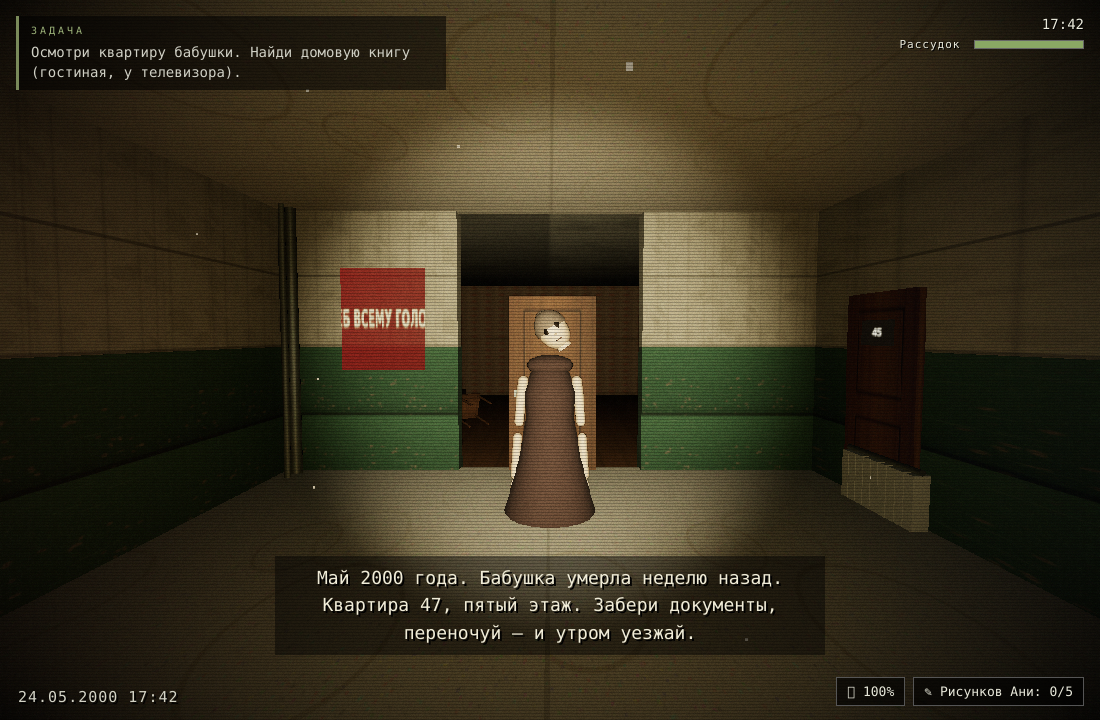
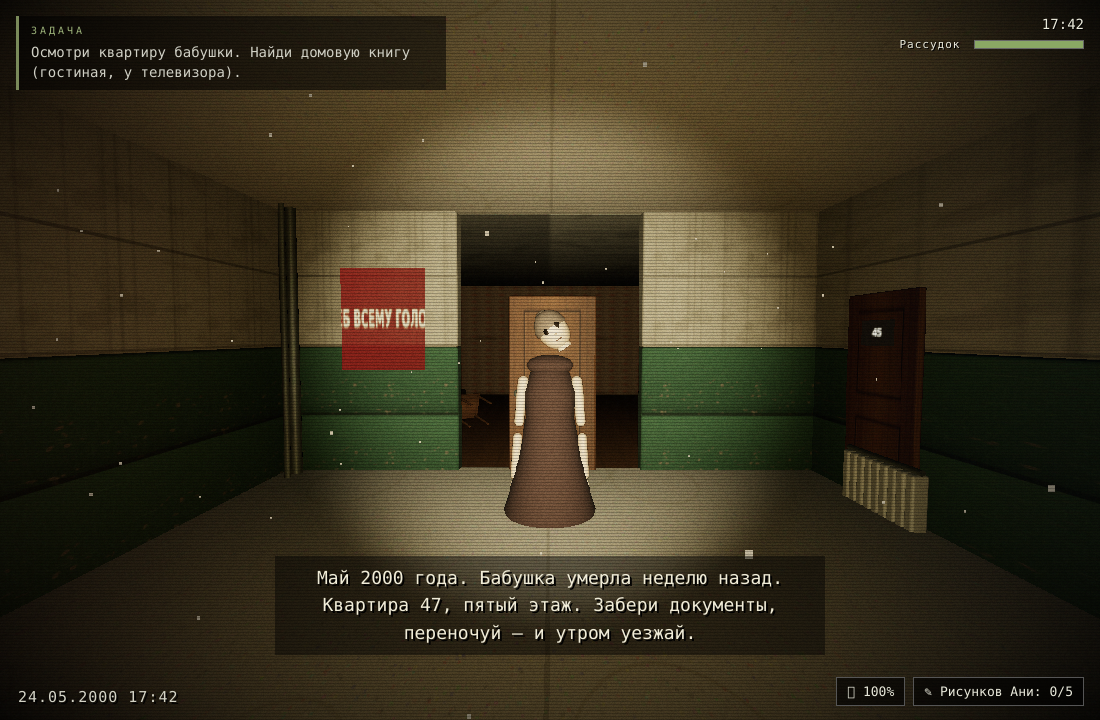
Высокая полигональность: RoundedBox-геометрия, 80-сегментные тела вращения, ~830k треугольников в сцене

Changed region(s): [[0.7418, 0.6417, 0.8345, 0.7333]]

diff --git a/src/main.js b/src/main.js
@@ -4,6 +4,7 @@ import { RenderPass } from 'three/addons/postprocessing/RenderPass.js';
 import { UnrealBloomPass } from 'three/addons/postprocessing/UnrealBloomPass.js';
 import { FilmPass } from 'three/addons/postprocessing/FilmPass.js';
 import { OutputPass } from 'three/addons/postprocessing/OutputPass.js';
+import { RoundedBoxGeometry } from 'three/addons/geometries/RoundedBoxGeometry.js';
 
 // ================= DOM =================
 const $=id=>document.getElementById(id);
@@ -138,7 +139,7 @@ const surfaces=[], colliders=[], interactables=[], lamps=[];
 function addSurface(x1,x2,z1,z2,y){ surfaces.push({x1,x2,z1,z2,y}); }
 function groundYAt(x,z,refY){ let best=null,bd=1e9; for(const s of surfaces){ if(x>=s.x1&&x<=s.x2&&z>=s.z1&&z<=s.z2){ const y=typeof s.y==='function'?s.y(x,z):s.y; const d=Math.abs(y-refY); if(d<bd){bd=d;best=y;} } } return bd<2.1?best:null; }
 function addCollider(x1,x2,z1,z2,y1,y2){ const c={x1,x2,z1,z2,y1,y2,enabled:true}; colliders.push(c); return c; }
-function box(w,h,d,mat,x,y,z,parent=world){ const m=new THREE.Mesh(new THREE.BoxGeometry(w,h,d),mat); m.position.set(x,y,z); m.castShadow=true; m.receiveShadow=true; parent.add(m); return m; }
+function box(w,h,d,mat,x,y,z,parent=world){ const rad=Math.max(0.001,Math.min(0.03,Math.min(w,h,d)*0.24)); const m=new THREE.Mesh(new RoundedBoxGeometry(w,h,d,4,rad),mat); m.position.set(x,y,z); m.castShadow=true; m.receiveShadow=true; parent.add(m); return m; }
 function wallBox(cx,cy,cz,w,h,d,mat=M.concrete){ const m=box(w,h,d,mat,cx,cy,cz); addCollider(cx-w/2,cx+w/2,cz-d/2,cz+d/2,cy-h/2,cy+h/2); return m; }
 function addInteract(obj){ interactables.push(obj); }
 
@@ -274,13 +275,13 @@ const rulesPlane=labelPlane('ПРАВИЛА ДОМА',1.0,0.55,'#2a2a22','rgba(2
 
 // ================= ДЕТАЛЬНЫЕ МОДЕЛИ (мебель, мелочи, пыль) =================
 let dustPoints=null;
-function cyl(r1,r2,h,mat,x,y,z,parent=world,seg=14){ const m=new THREE.Mesh(new THREE.CylinderGeometry(r1,r2,h,seg),mat); m.position.set(x,y,z); m.castShadow=true; m.receiveShadow=true; parent.add(m); return m; }
-function sph(r,mat,x,y,z,parent=world){ const m=new THREE.Mesh(new THREE.SphereGeometry(r,18,14),mat); m.position.set(x,y,z); m.castShadow=true; m.receiveShadow=true; parent.add(m); return m; }
-function tube(a,b,r,mat,parent=world){ const A=new THREE.Vector3(...a),B=new THREE.Vector3(...b); const d=B.clone().sub(A); const m=new THREE.Mesh(new THREE.CylinderGeometry(r,r,d.length(),10),mat); m.position.copy(A).addScaledVector(d,0.5); m.quaternion.setFromUnitVectors(new THREE.Vector3(0,1,0),d.normalize()); m.castShadow=true; parent.add(m); return m; }
+function cyl(r1,r2,h,mat,x,y,z,parent=world,seg=36){ const m=new THREE.Mesh(new THREE.CylinderGeometry(r1,r2,h,seg),mat); m.position.set(x,y,z); m.castShadow=true; m.receiveShadow=true; parent.add(m); return m; }
+function sph(r,mat,x,y,z,parent=world){ const m=new THREE.Mesh(new THREE.SphereGeometry(r,44,30),mat); m.position.set(x,y,z); m.castShadow=true; m.receiveShadow=true; parent.add(m); return m; }
+function tube(a,b,r,mat,parent=world){ const A=new THREE.Vector3(...a),B=new THREE.Vector3(...b); const d=B.clone().sub(A); const m=new THREE.Mesh(new THREE.CylinderGeometry(r,r,d.length(),24),mat); m.position.copy(A).addScaledVector(d,0.5); m.quaternion.setFromUnitVectors(new THREE.Vector3(0,1,0),d.normalize()); m.castShadow=true; parent.add(m); return m; }
 function chair(x,y,z,ry,parent=world){ const g=new THREE.Group(); g.position.set(x,y,z); g.rotation.y=ry; parent.add(g); const wood=M.door;
-  for(const [lx,lz] of [[-.19,-.19],[.19,-.19],[-.19,.19],[.19,.19]]) cyl(0.022,0.018,0.45,wood,lx,0.225,lz,g,8);
+  for(const [lx,lz] of [[-.19,-.19],[.19,-.19],[-.19,.19],[.19,.19]]) cyl(0.022,0.018,0.45,wood,lx,0.225,lz,g,20);
   box(0.46,0.04,0.46,wood,0,0.46,0,g);
-  for(const lx of [-.19,.19]) cyl(0.02,0.02,0.55,wood,lx,0.73,0.21,g,8);
+  for(const lx of [-.19,.19]) cyl(0.02,0.02,0.55,wood,lx,0.73,0.21,g,20);
   box(0.44,0.09,0.035,wood,0,0.97,0.21,g); box(0.44,0.07,0.03,wood,0,0.78,0.21,g); return g; }
 function radiator(x,y,z,ry=0,parent=world){ const g=new THREE.Group(); g.position.set(x,y,z); g.rotation.y=ry; parent.add(g); const wm=new THREE.MeshStandardMaterial({color:0xb9bcb4,roughness:0.5,metalness:0.35});
   for(let i=0;i<9;i++) box(0.09,0.52,0.13,wm,-0.4+i*0.1,0.32,0,g);
@@ -361,15 +362,42 @@ function radiator(x,y,z,ry=0,parent=world){ const g=new THREE.Group(); g.positio
   // подвал: трубы под потолком и вентиль
   const p1=cyl(0.07,0.07,9,M.metal,10,-0.35,-2,world,12); p1.rotation.z=Math.PI/2;
   const p2=cyl(0.05,0.05,9,M.metal,10,-0.55,-1.8,world,10); p2.rotation.z=Math.PI/2;
-  const valve=new THREE.Mesh(new THREE.TorusGeometry(0.16,0.03,10,20),M.red); valve.position.set(12.2,-1.7,0.86); world.add(valve);
+  const valve=new THREE.Mesh(new THREE.TorusGeometry(0.16,0.03,24,72),M.red); valve.position.set(12.2,-1.7,0.86); world.add(valve);
   cyl(0.09,0.09,0.06,new THREE.MeshStandardMaterial({color:0xe8e4d2,roughness:0.3}),13.6,-1.2,0.86,world,14).rotation.x=Math.PI/2;
   // квартира 43: опрокинутый стул
   const ch=chair(-8,Y,1.2,0.7); ch.rotation.z=1.35; ch.position.y=Y+0.25;
+
+  // --- высокополигональные детали: шторы волной, люстра, цветок на подоконнике ---
+  const curtainMat=new THREE.MeshStandardMaterial({map:texFabric,color:0x9a7a6a,roughness:1,side:THREE.DoubleSide});
+  for(const cx of [13.3,15.7]){
+    const cg=new THREE.PlaneGeometry(0.52,1.95,28,36); const cp=cg.attributes.position;
+    for(let vi=0;vi<cp.count;vi++){ const vx=cp.getX(vi),vy=cp.getY(vi); cp.setZ(vi,Math.sin((vx+0.26)*22)*0.045+Math.sin(vy*5+cx)*0.015); }
+    cg.computeVertexNormals();
+    const cm=new THREE.Mesh(cg,curtainMat); cm.position.set(cx,Y+1.68,6.88); cm.castShadow=true; cm.receiveShadow=true; world.add(cm);
+  }
+  // люстра в гостиной: arms + плафоны
+  cyl(0.02,0.02,0.3,M.metal,14.5,Y+2.9,-3.5,world,16);
+  const lampHub=sph(0.06,M.metal,14.5,Y+2.72,-3.5);
+  for(let ai=0;ai<3;ai++){ const ang=ai/3*Math.PI*2; const ax=14.5+Math.cos(ang)*0.34, az=-3.5+Math.sin(ang)*0.34;
+    tube([14.5,Y+2.74,-3.5],[ax,Y+2.62,az],0.014,M.metal);
+    const sh=new THREE.Mesh(new THREE.SphereGeometry(0.085,36,24,0,Math.PI*2,0,1.9),M.glass); sh.position.set(ax,Y+2.6,az); sh.rotation.x=Math.PI; world.add(sh);
+    const bulb2=sph(0.032,M.lampOn,ax,Y+2.58,az); bulb2.castShadow=false; }
+  // цветок: горшок, стебли, листья (каждый лист — высокосегментная сфера-линза)
+  cyl(0.09,0.07,0.16,new THREE.MeshStandardMaterial({color:0x8a4a30,roughness:0.8}),13.35,Y+0.9,6.8,world,28);
+  const leafMat=new THREE.MeshStandardMaterial({color:0x39543a,roughness:0.85});
+  for(let li=0;li<14;li++){ const ang=li/14*Math.PI*2+Math.random()*.4, tilt=0.5+Math.random()*0.7;
+    tube([13.35,Y+0.97,6.8],[13.35+Math.cos(ang)*0.1,Y+1.12+Math.random()*0.12,6.8+Math.sin(ang)*0.1],0.006,leafMat);
+    const leaf=sph(0.05,leafMat,13.35+Math.cos(ang)*0.14,Y+1.16+Math.random()*0.1,6.8+Math.sin(ang)*0.14);
+    leaf.scale.set(1.5,0.28,0.7); leaf.rotation.set(tilt,ang,0.4); }
+  // уют: тарелки и кружки на кухонном столе (торы и цилиндры высокого разрешения)
+  for(const [px,pz] of [[8.6,-4.05],[9.0,-4.35]]){ const plate=new THREE.Mesh(new THREE.TorusGeometry(0.085,0.02,20,48),new THREE.MeshStandardMaterial({color:0xd9d5c6,roughness:0.3})); plate.position.set(px,Y+0.75,pz); plate.rotation.x=Math.PI/2; plate.castShadow=true; world.add(plate); }
+  cyl(0.035,0.03,0.08,new THREE.MeshStandardMaterial({color:0xa33b2e,roughness:0.35}),8.75,Y+0.79,-4.2,world,32);
+
   // пыль в воздухе
-  const N=420, pos=new Float32Array(N*3);
+  const N=2600, pos=new Float32Array(N*3);
   for(let i=0;i<N;i++){ if(i%2){ pos[i*3]=-4+Math.random()*22; pos[i*3+1]=Math.random()*15; pos[i*3+2]=-6+Math.random()*12; } else { pos[i*3]=-4+Math.random()*8; pos[i*3+1]=Math.random()*17; pos[i*3+2]=-2+Math.random()*12; } }
   const dg=new THREE.BufferGeometry(); dg.setAttribute('position',new THREE.BufferAttribute(pos,3));
-  dustPoints=new THREE.Points(dg,new THREE.PointsMaterial({color:0xffe6b8,size:0.02,transparent:true,opacity:0.4,depthWrite:false}));
+  dustPoints=new THREE.Points(dg,new THREE.PointsMaterial({color:0xffe6b8,size:0.013,transparent:true,opacity:0.28,depthWrite:false}));
   scene.add(dustPoints);
 })();
 
@@ -384,37 +412,37 @@ function makeFigure(dress=false,coatColor=null){
   if(dress){
     // платье — силуэт через LatheGeometry
     const pts=[]; [[0.02,0],[0.34,0.02],[0.38,0.18],[0.26,0.6],[0.2,0.95],[0.21,1.15],[0.16,1.32],[0.05,1.38]].forEach(p=>pts.push(new THREE.Vector2(p[0],p[1])));
-    part(new THREE.LatheGeometry(pts,18),M.dress,0,0,0);
-    part(new THREE.SphereGeometry(0.155,14,10),M.dress,0,1.38,0).scale.set(1.25,0.55,0.9); // плечи
+    part(new THREE.LatheGeometry(pts,80),M.dress,0,0,0);
+    part(new THREE.SphereGeometry(0.155,44,30),M.dress,0,1.38,0).scale.set(1.25,0.55,0.9); // плечи
     // длинные руки: плечо+предплечье капсулами, кисти
-    for(const side of [-1,1]){ const a=part(new THREE.CapsuleGeometry(0.042,0.34,4,10),skin,side*0.24,1.08,0); a.rotation.z=side*0.1;
-      const f=part(new THREE.CapsuleGeometry(0.036,0.32,4,10),skin,side*0.28,0.62,0.01); f.rotation.z=side*0.06;
-      const hand=part(new THREE.SphereGeometry(0.05,10,8),skin,side*0.29,0.36,0.02); hand.scale.set(0.75,1.5,0.4);
-      for(let fi2=0;fi2<3;fi2++){ const fg=part(new THREE.CapsuleGeometry(0.008,0.06,3,6),skin,side*0.29+(fi2-1)*0.02,0.27,0.03); } }
+    for(const side of [-1,1]){ const a=part(new THREE.CapsuleGeometry(0.042,0.34,14,28),skin,side*0.24,1.08,0); a.rotation.z=side*0.1;
+      const f=part(new THREE.CapsuleGeometry(0.036,0.32,14,28),skin,side*0.28,0.62,0.01); f.rotation.z=side*0.06;
+      const hand=part(new THREE.SphereGeometry(0.05,44,30),skin,side*0.29,0.36,0.02); hand.scale.set(0.75,1.5,0.4);
+      for(let fi2=0;fi2<3;fi2++){ const fg=part(new THREE.CapsuleGeometry(0.008,0.06,14,28),skin,side*0.29+(fi2-1)*0.02,0.27,0.03); } }
     part(new THREE.CylinderGeometry(0.05,0.065,0.5,10),skin,-0.1,0.06,0).position.y=-0.1; // ноги под платьем едва видны
-    const legL=part(new THREE.CapsuleGeometry(0.045,0.3,4,8),skin,-0.1,0.16,0); const legR=part(new THREE.CapsuleGeometry(0.045,0.3,4,8),skin,0.1,0.16,0);
+    const legL=part(new THREE.CapsuleGeometry(0.045,0.3,14,28),skin,-0.1,0.16,0); const legR=part(new THREE.CapsuleGeometry(0.045,0.3,14,28),skin,0.1,0.16,0);
     part(new THREE.BoxGeometry(0.09,0.04,0.2),M.dark,-0.1,0.02,0.04); part(new THREE.BoxGeometry(0.09,0.04,0.2),M.dark,0.1,0.02,0.04);
   } else {
     // пальто — LatheGeometry: подол шире, талия уже
     const pts=[]; [[0.02,0.55],[0.24,0.56],[0.27,0.8],[0.2,1.15],[0.19,1.4],[0.24,1.52],[0.05,1.56]].forEach(p=>pts.push(new THREE.Vector2(p[0],p[1])));
-    part(new THREE.LatheGeometry(pts,18),coatMat,0,0,0);
-    part(new THREE.SphereGeometry(0.16,14,10),coatMat,0,1.5,0).scale.set(1.35,0.55,0.95); // плечи
+    part(new THREE.LatheGeometry(pts,80),coatMat,0,0,0);
+    part(new THREE.SphereGeometry(0.16,44,30),coatMat,0,1.5,0).scale.set(1.35,0.55,0.95); // плечи
     part(new THREE.CylinderGeometry(0.19,0.21,0.12,14),coatMat,0,1.56,0); // воротник
-    for(const side of [-1,1]){ const a=part(new THREE.CapsuleGeometry(0.05,0.36,4,10),coatMat,side*0.27,1.24,0); a.rotation.z=side*0.08;
-      const f=part(new THREE.CapsuleGeometry(0.042,0.32,4,10),coatMat,side*0.3,0.82,0.01); f.rotation.z=side*0.05;
-      part(new THREE.SphereGeometry(0.048,10,8),skin,side*0.31,0.55,0.02).scale.set(0.8,1.3,0.45); }
-    for(const side of [-1,1]){ part(new THREE.CapsuleGeometry(0.062,0.4,4,10),new THREE.MeshStandardMaterial({color:0x101114,roughness:0.9}),side*0.11,0.32,0);
+    for(const side of [-1,1]){ const a=part(new THREE.CapsuleGeometry(0.05,0.36,14,28),coatMat,side*0.27,1.24,0); a.rotation.z=side*0.08;
+      const f=part(new THREE.CapsuleGeometry(0.042,0.32,14,28),coatMat,side*0.3,0.82,0.01); f.rotation.z=side*0.05;
+      part(new THREE.SphereGeometry(0.048,44,30),skin,side*0.31,0.55,0.02).scale.set(0.8,1.3,0.45); }
+    for(const side of [-1,1]){ part(new THREE.CapsuleGeometry(0.062,0.4,14,28),new THREE.MeshStandardMaterial({color:0x101114,roughness:0.9}),side*0.11,0.32,0);
       part(new THREE.BoxGeometry(0.11,0.05,0.24),M.dark,side*0.11,0.025,0.05); }
     // пуговицы
-    for(let bi=0;bi<3;bi++) part(new THREE.SphereGeometry(0.016,8,8),M.metal,0,1.32-bi*0.22,0.195);
+    for(let bi=0;bi<3;bi++) part(new THREE.SphereGeometry(0.016,44,30),M.metal,0,1.32-bi*0.22,0.195);
   }
   // голова на шарнире (для наклона Хозяйки)
   const headPivot=new THREE.Group(); headPivot.position.y=1.56; g.add(headPivot);
-  const head=part(new THREE.SphereGeometry(0.145,20,16),skin,0,0.13,0,headPivot); head.scale.set(0.88,1.12,0.95);
-  const hair=part(new THREE.SphereGeometry(0.15,20,14,0,Math.PI*2,0,1.65),hairM,0,0.155,-0.012,headPivot); hair.scale.set(0.92,1.05,0.98);
-  if(dress){ const bun=part(new THREE.SphereGeometry(0.07,12,10),hairM,0,0.26,-0.1,headPivot); }
+  const head=part(new THREE.SphereGeometry(0.145,44,30),skin,0,0.13,0,headPivot); head.scale.set(0.88,1.12,0.95);
+  const hair=part(new THREE.SphereGeometry(0.15,48,32,0,Math.PI*2,0,1.65),hairM,0,0.155,-0.012,headPivot); hair.scale.set(0.92,1.05,0.98);
+  if(dress){ const bun=part(new THREE.SphereGeometry(0.07,44,30),hairM,0,0.26,-0.1,headPivot); }
   // лицо: впалые глаза, нос, рот
-  for(const side of [-1,1]){ const eye=part(new THREE.SphereGeometry(0.02,10,8),new THREE.MeshBasicMaterial({color:0x060606}),side*0.052,0.15,0.125,headPivot); eye.scale.set(1,1.35,0.5); }
+  for(const side of [-1,1]){ const eye=part(new THREE.SphereGeometry(0.02,44,30),new THREE.MeshBasicMaterial({color:0x060606}),side*0.052,0.15,0.125,headPivot); eye.scale.set(1,1.35,0.5); }
   const nose=part(new THREE.ConeGeometry(0.018,0.05,8),skin,0,0.095,0.135,headPivot); nose.rotation.x=Math.PI/2-0.25;
   part(new THREE.BoxGeometry(0.05,0.008,0.01),new THREE.MeshStandardMaterial({color:0x4a3428,roughness:0.8}),0,0.045,0.132,headPivot);
   part(new THREE.CylinderGeometry(0.055,0.065,0.09,12),skin,0,0.0,0,headPivot); // шея
@@ -740,6 +768,6 @@ function animate(){ requestAnimationFrame(animate); const now=performance.now();
   composer.render();
 }
 // отладочный доступ (для автоскриншотов/демо)
-window.__fifth={ S, player, scene, camera, setStage, setDay, activateStanding, startKnock, teleport, standingPos, standing, hostess, doppel, sixthGroup, setSanity, door47, nightStart, subtitle };
+window.__fifth={ S, player, scene, camera, renderer, composer, setStage, setDay, activateStanding, startKnock, teleport, standingPos, standing, hostess, doppel, sixthGroup, setSanity, door47, nightStart, subtitle };
 animate();
 addEventListener('resize',()=>{ camera.aspect=innerWidth/innerHeight; camera.updateProjectionMatrix(); });
